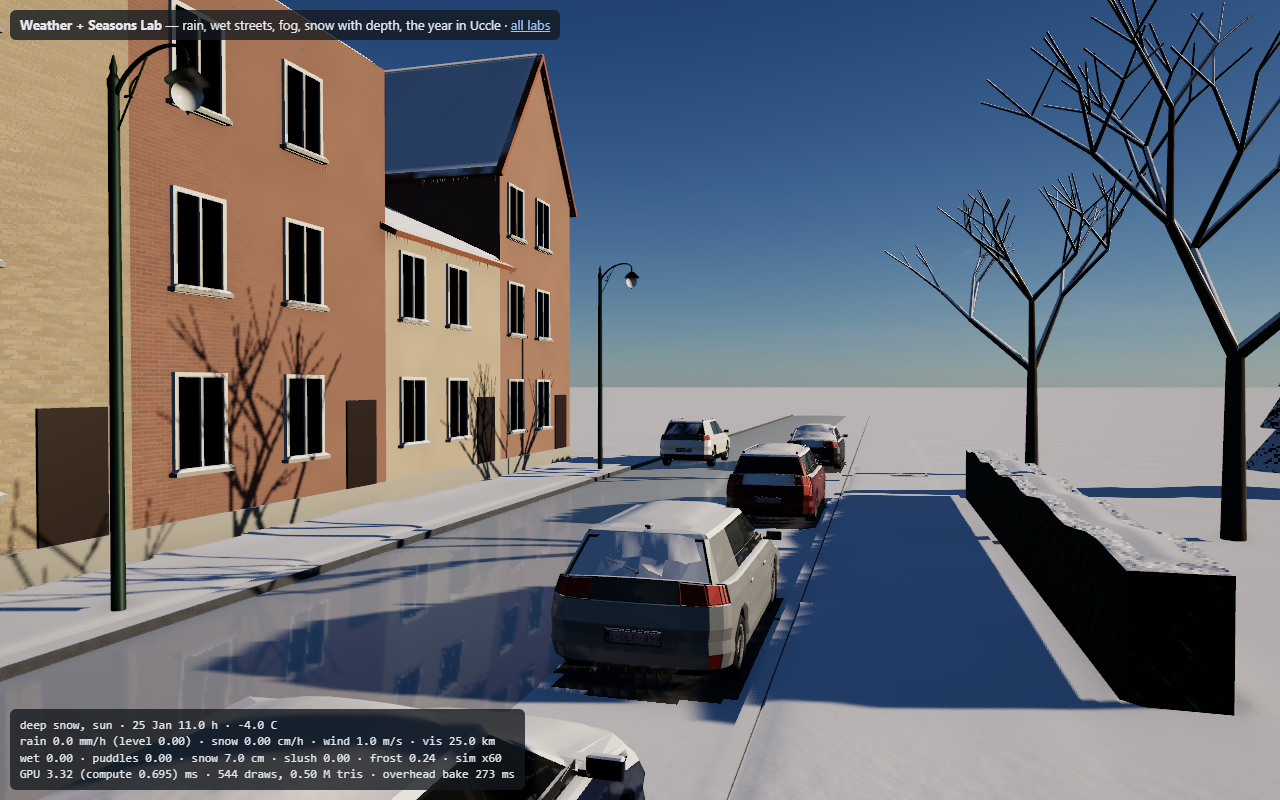
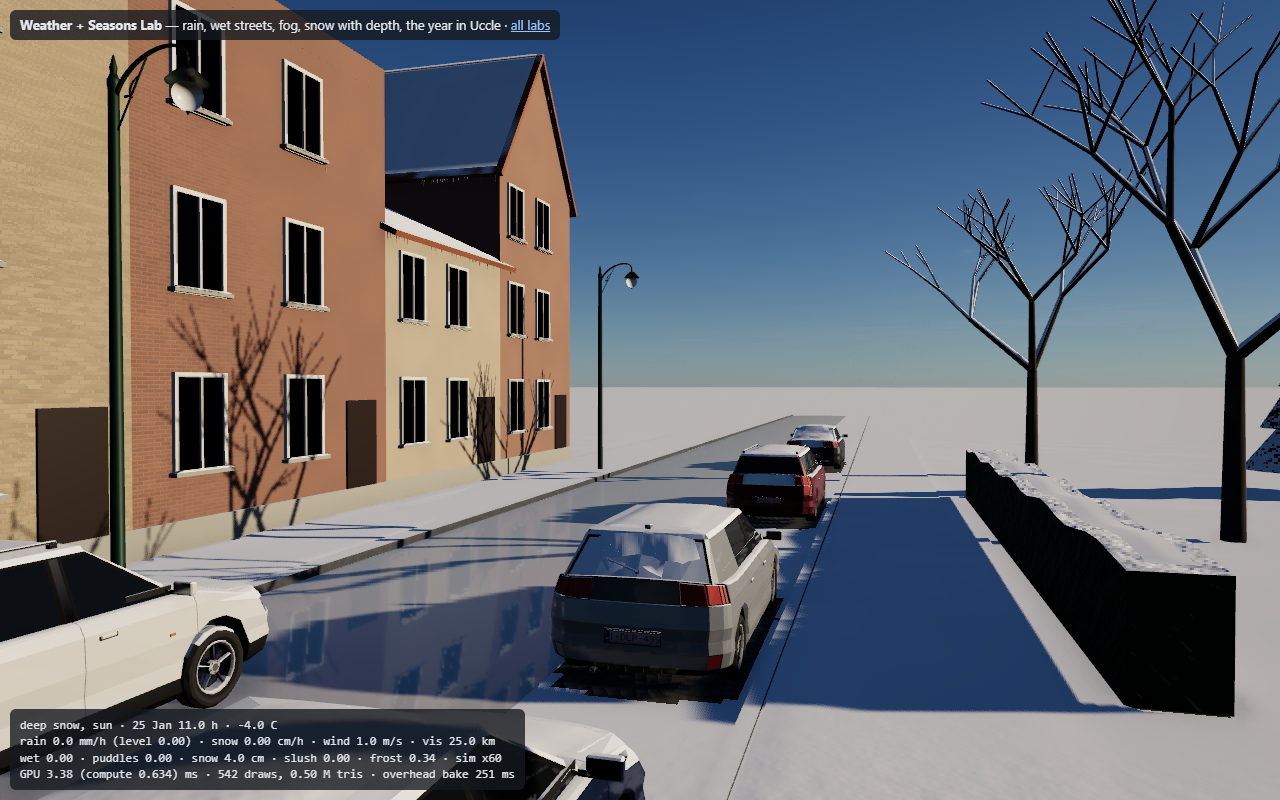
Round 2: patchy thin snow + dark tyre lines, cornice cap, min-pixel icicles, softer ripples, flat-roof z-fight fix; WEATHER.md round 2 (photo findings, GPU, flicker), TODO

diff --git a/labs/weather-lab.js b/labs/weather-lab.js
@@ -27,7 +27,7 @@ import { Weather, WEATHER_PRESETS, wx } from "../viewer/weather/weatherState.js"
 import { weatherize, wxLook } from "../viewer/weather/surfaceWeather.js";
 import { createOverheadMap, markSolid, markCanopy, markRoad } from "../viewer/weather/overheadMap.js";
 import { createPrecipitation } from "../viewer/weather/precipitation.js";
-import { createSnowLayer } from "../viewer/weather/snowLayer.js";
+import { createSnowLayer, createTrackField, trackSampler } from "../viewer/weather/snowLayer.js";
 import { createWeatherFog } from "../viewer/weather/weatherFog.js";
 import { snowOnBranches, snowOnFoliage, createLedgeCaps, createEaveIce } from "../viewer/weather/snowExtras.js";
 import { fetchLive, mapLive } from "../viewer/weather/liveWeather.js";
@@ -142,6 +142,8 @@ const ledges = [];   // narrow up-facing ledges for the snow caps: { x, y, z, le
 
 // the overhead map: 64 m around the street (12.5 cm cells)
 const omap = createOverheadMap({ renderer, centre: new THREE.Vector3(0, 0, 0), size: 64, res: 512 });
+const trackField = createTrackField(omap);
+const trackAt = trackSampler(trackField, omap);
 
 // ================================================================================================ the street
 const root = new THREE.Group(); scene.add(root);
@@ -278,12 +280,13 @@ const houses = [
       }
       // a cornice at the foot of the mansard (a ledge for snow)
       root.add(mesh(new THREE.BoxGeometry(h.w, 0.18, 0.35).translate(x + h.w / 2, wallH - 0.05, front + 0.12), mats.stone, { porosity: 0.35 }));
-      ledges.push({ x: x + h.w / 2, y: wallH + 0.04, z: front + 0.12 + 0.02, len: h.w, width: 0.3, axis: "x" });
+      // the cornice is cut out of the volumetric layer (a mansard wall behind, a drop in front): a cap
+      ledges.push({ x: x + h.w / 2, y: wallH + 0.04, z: front + 0.12 + 0.03, len: h.w, width: 0.28, axis: "x" });
     } else if (h.roof === "flat") {
-      root.add(mesh(new THREE.BoxGeometry(h.w, 0.12, depthH).translate(x + h.w / 2, wallH + 0.06, zc), () => plainMat(0x33302c, 0.9), { porosity: 0.4, puddles: true }));
+      // (inset 3 cm from the facade: its front face was coplanar with the parapet's and z-fought in the flicker test)
+      root.add(mesh(new THREE.BoxGeometry(h.w - 0.06, 0.12, depthH - 0.06).translate(x + h.w / 2, wallH + 0.06, zc), () => plainMat(0x33302c, 0.9), { porosity: 0.4, puddles: true }));
       for (const [dx, dz, sx, sz] of [[0, -depthH / 2 + 0.15, h.w, 0.3], [0, depthH / 2 - 0.15, h.w, 0.3]]) {
         root.add(mesh(new THREE.BoxGeometry(sx, 0.6, sz).translate(x + h.w / 2 + dx, wallH + 0.3, zc + dz), mkB, WALL_OPTS));
-        ledges.push({ x: x + h.w / 2 + dx, y: wallH + 0.6, z: zc + dz, len: sx, width: sz, axis: "x" });
       }
       // a skylight box on the roof
       root.add(mesh(new THREE.BoxGeometry(1.4, 0.5, 1.4).translate(x + h.w / 2, wallH + 0.37, zc - 1), () => plainMat(0x777a7d, 0.5), { porosity: 0.1 }));
@@ -465,7 +468,7 @@ const rain = createPrecipitation({ renderer, kind: "rain", map: omap });
 const snowP = createPrecipitation({ renderer, kind: "snow", map: omap });
 const leaves = createPrecipitation({ renderer, kind: "leaves", map: omap, trees: treeSites.map((t) => ({ x: t.x, z: t.z, r: t.r * 0.8, y: t.y })) });
 scene.add(rain.mesh, rain.splashes, snowP.mesh, leaves.mesh);
-const snowLayer = createSnowLayer({ renderer, map: omap });
+const snowLayer = createSnowLayer({ renderer, map: omap, track: trackField });
 scene.add(snowLayer.mesh);
 const caps = createLedgeCaps(ledges);
 scene.add(caps.mesh);

diff --git a/viewer/weather/snowLayer.js b/viewer/weather/snowLayer.js
@@ -18,17 +18,28 @@ import { wx } from "./weatherState.js";
 import { season } from "../seasons/season.js";
 import { SHAPE } from "./overheadMap.js";
 import { noise2D, bumpNormal } from "../tslkit.js";
-import { glint, SNOW_ALBEDO, wxLook } from "./surfaceWeather.js";
+import { glint, SNOW_ALBEDO, wxLook, snowMask } from "./surfaceWeather.js";
 
 const NSTAMP = 6;
 
-export function createSnowLayer({ renderer, map }) {
+/** The track field (footprints / tyre tracks), one float per overhead cell. Create it BEFORE the materials when they
+ *  should show tracks in thin snow too (weatherize({ track: trackSampler(field, map) })). */
+export function createTrackField(map) { return instancedArray(map.res * map.res, "float"); }
+/** fragment sampler of the track field at a world xz (0 fresh .. 1 packed); 0 outside the map */
+export function trackSampler(field, map) {
+  return (xz) => {
+    const c = clamp(xz.sub(map.uOrigin).div(map.uSize).mul(map.res).floor(), 0, map.res - 1);
+    return select(map.inside(xz), field.element(int(c.y).mul(map.res).add(int(c.x))), float(0));
+  };
+}
+
+export function createSnowLayer({ renderer, map, track: sharedTrack = null }) {
   const N = map.res, cell = map.cell;
   const x0 = map.uOrigin.value.x, z0 = map.uOrigin.value.y;
   const geo = new THREE.PlaneGeometry(map.size - cell, map.size - cell, N - 1, N - 1).rotateX(-Math.PI / 2)
     .translate(x0 + map.size / 2, 0, z0 + map.size / 2);
   geo.boundingSphere = new THREE.Sphere(new THREE.Vector3(x0 + map.size / 2, 0, z0 + map.size / 2), map.size);
-  const track = instancedArray(N * N, "float");
+  const track = sharedTrack ?? instancedArray(N * N, "float");
   const uDt = uniform(0);
   const uRefill = uniform(0);                          // track units per second (snowfall fills tracks back)
   const stampA = Array.from({ length: NSTAMP }, () => uniform(new THREE.Vector4(0, 0, 0, 0)));    // x, z, prev x, prev z
@@ -101,11 +112,19 @@ export function createSnowLayer({ renderer, map }) {
   const packed = smoothstep(0.15, 0.7, vTrack);
   mat.colorNode = Fn(() => {
     If(vHide.greaterThan(0.001), () => { Discard(); });
+    // thin snow is patchy: the layer keeps the materials' own cover pattern (same noise) and, while it is thin, opens
+    // where wheels and feet packed it down to the ground (the Bosveldweg photo: dark tyre lines in 1 cm of snow)
+    const thin = float(1).sub(smoothstep(0.02, 0.06, wx.uSnowDepth));
+    const keep = snowMask(P, float(1), float(1), wx.uSnowCover);
+    If(keep.lessThan(0.3), () => { Discard(); });
     const v = noise2D(P.xz.mul(0.8)).mul(0.04).add(0.98);
     const slushC = vec3(0.4, 0.41, 0.42);
     let c = SNOW_ALBEDO.mul(v);
     c = mix(c, c.mul(0.78).mul(vec3(0.97, 0.97, 0.96)), packed);              // packed snow: greyer, a little dirty
     c = mix(c, slushC, wx.uSlush.mul(mix(float(0.5), float(1), packed)));      // thaw: tracks go to slush first
+    // thin snow: the tracks are pressed through to the wet ground (dark lines, the Bosveldweg photo)
+    const thinT = float(1).sub(smoothstep(0.02, 0.06, wx.uSnowDepth));
+    c = mix(c, vec3(0.07, 0.068, 0.065), packed.mul(thinT).mul(0.9));
     return c;
   })();
   mat.roughnessNode = mix(mix(mix(float(0.74), float(0.12), gl.w), float(0.5), packed), float(0.22), wx.uSlush);

diff --git a/viewer/weather/surfaceWeather.js b/viewer/weather/surfaceWeather.js
@@ -53,7 +53,7 @@ export const rippleSlope = Fn(([xz, t, fw]) => {
     acc.addAssign(d.div(max(length(d), 0.001)).mul(w));
   }
   // rings ~11 cm wavelength: gone before a ring is 3 px across (no crawl)
-  return acc.mul(0.22).mul(float(1).sub(smoothstep(0.012, 0.035, fw))).mul(wx.uRain.mul(1.5).min(1)).mul(wxLook.uRipple);
+  return acc.mul(0.13).mul(float(1).sub(smoothstep(0.012, 0.035, fw))).mul(wx.uRain.mul(1.5).min(1)).mul(wxLook.uRipple);
 });
 
 /** Snow sparkle: a sparse set of cells whose facet is tilted at random; returns vec4(view normal tilt xyz, mask). */
@@ -120,7 +120,7 @@ export function weatherize(m, o = {}) {
   // a soaked porous surface also gets a touch more saturated (Lagarde: the water layer)
   let rough = mix(baseRough, baseRough.mul(0.3).add(0.06), wet.mul(mix(float(0.55), float(1), horiz)));
   let metal = mix(baseMetal, max(baseMetal, float(0.12)), wet.mul(horiz));
-  if (o.road) { rough = mix(rough, max(rough, float(0.42)), wx.uSalt.mul(wx.uSnowCover.min(1))); metal = metal.mul(float(1).sub(wx.uSalt.mul(wx.uSnowCover.min(1)).mul(0.6))); }
+  if (o.road) { rough = mix(rough, max(rough, float(0.55)), wx.uSalt.mul(wx.uSnowCover.min(1))); metal = metal.mul(float(1).sub(wx.uSalt.mul(wx.uSnowCover.min(1)).mul(0.6))); }
   let nView = baseN;
 
   // ---- puddles
@@ -230,6 +230,10 @@ export function weatherize(m, o = {}) {
     }
     // slush: melting snow on roads / pavements turns grey, wet and patchy
     sm.mulAssign(roadKeep);
+    if (o.track) {   // thin snow: packed tracks show the ground (wheel lines, footprints)
+      const thin = float(1).sub(smoothstep(0.02, 0.06, wx.uSnowDepth));
+      sm.mulAssign(float(1).sub(smoothstep(0.35, 0.75, o.track(P.xz)).mul(thin).mul(horiz)));
+    }
     // what is left on a salted road is old, dirty slush (grey-brown), whatever the melt state
     const slush = o.slush ? max(wx.uSlush, o.road ? wx.uSalt.mul(0.85) : float(0)) : wx.uSlush.mul(0.35);
     const sCol = mix(SNOW_ALBEDO, vec3(0.36, 0.35, 0.33), slush.mul(0.85));

diff --git a/viewer/weather/snowExtras.js b/viewer/weather/snowExtras.js
@@ -128,7 +128,8 @@ export function createEaveIce(map, { perSite = 2, maxSites = 700 } = {}) {
   cone.setAttribute("aIce", new THREE.InstancedBufferAttribute(S4, 4));
   const ic = attribute("aIce", "vec4"), r = ic.w;
   const len = wx.uIcicle.mul(r.mul(r).mul(0.55).add(0.15)).mul(smoothstep(0.25, 0.35, r));   // a third of the sites stay bare
-  const rad = len.mul(0.06).add(0.004);
+  // never thinner than ~1 px (a sub-pixel icicle blinks as the camera moves: the flicker test)
+  const rad = max(len.mul(0.06).add(0.004), length(cameraPosition.sub(ic.xyz)).mul(0.0009)).mul(smoothstep(0.0, 0.02, len));
   im.positionNode = ic.xyz.add(vec3(positionGeometry.x.mul(rad), positionGeometry.y.mul(len), positionGeometry.z.mul(rad)));
   im.colorNode = mix(vec3(0.55, 0.68, 0.78), vec3(0.85, 0.9, 0.95), positionGeometry.y.negate());
   // (normals: the cone's own, unscaled: fine for a thin cone)

diff --git a/docs/WEATHER.md b/docs/WEATHER.md
@@ -92,3 +92,86 @@ Heat maps: `docs/weather/flicker_wet_strafe.png`, `flicker_snow_strafe.png`, `fl
 - Glass in the lab is a dark mirror (no interior): night windows are black; the city's facade windows have interiors.
 - Snow sparkle: dark specks were visible with large facet tilts; tilt reduced to 0.18 rad, re-check up close.
 - GPU numbers taken with another lab running in the same Chrome: redo on a quiet machine.
+
+---
+
+# Round 2 (2026-11-11 evening): winter
+
+## Photo side-by-sides (free Commons photos, kept in `data/raw/weather_refs/` with `SOURCES.md`, never shipped)
+Composites (photo | lab render), local only: `data/raw/weather_refs/compare_after_snow_sun.jpg` (Uccle, Av. Churchill
+after snow, charles lecompte CC BY-SA 3.0), `compare_snowfall_night.jpg` (Av. Churchill 17-01-2024, Sjenghai CC BY 4.0),
+`compare_night_snow_demey.jpg` (Av. G. Demey, Szilas CC BY-SA 4.0), `compare_patchy_snow.jpg` (Bosveldweg, charles
+lecompte CC BY-SA 3.0), `compare_rain_day.jpg` (rue des Fripiers in rain, charles lecompte CC BY-SA 3.0). Lab-only
+renders: `docs/weather/r2_*.png`.
+
+What the photos taught, and what changed:
+
+| Photo says | Lab before | Now |
+|---|---|---|
+| Main roads are salted / ploughed: black WET asphalt, dirty slush only at the kerbs; snow stays on sidewalks, parking strips, lawns, cars (Av. Churchill, day) | the whole street white | `wx.uSalt` + a ROAD bake layer: the volumetric layer keeps almost nothing on carriageways; the road material (`weatherize({ road, edge })`) goes wet dark asphalt with grey-brown slush along the gutters; a slider for unsalted side streets |
+| At night the snow is lit EVERYWHERE, warm (street lights + the glowing cloud deck) | black snow outside the two lamp pools | "urban sky glow": the lab's constant hemisphere light, warm, x night x cloud x snow cover (a finding for the city's night look) |
+| Falling flakes near lamps are short streaks (exposure blur) | round dots | flakes stretched along their velocity by ~1/40 s; a "blizzard (dense)" preset (64k flakes, 12 m/s) |
+| Snow plastered on the windward side of trunks | none | `weatherize({ plaster: true })` on bark |
+| Snow on the upper side of every branch | only the cut ends | `snowOnBranches()` (thickness) + bark `snowUp: [0.12, 0.45]` (colour) |
+| Thin snow (1 cm) is patchy; wheel tracks show the dark ground (Bosveldweg) | uniform white layer | full cover at 2.5 cm (was 1.2); the layer follows the same cover pattern; in thin snow packed tracks turn to dark wet ground |
+| Sills and cornices carry rounded snow; sills under a high eave still whiten | sills grey (the overhead test said "sheltered") | ledge caps (instanced, rounded) + exposure that lets wind-blown snow under eaves > 1.2 m above |
+| Wet day (setts with reflections, white sky) | close already | ripple normals softened (SSR flicker) |
+
+Not matched yet: the orange cloud glow of the night sky itself (Firmament, not touched); trampled sidewalk snow; snow on
+rails and fences; snow-covered windscreens.
+
+## New in round 2
+- **Shape pass in a worker** (`viewer/weather/overheadShape.js` pure, `overheadWorker.js` module worker, transferred
+  buffers): ~150 ms of loops off the main thread (fallback: main thread). The GPU bake + readback stays async.
+- **Smoother layer**: base heights `Hs` blurred twice across non-step neighbours (car roofs and gentle slopes lose
+  their 12.5 cm terraces); lip at cuts 0.12 -> 0.04 (the cut's stair-step on diagonals is nearly flat).
+- **Snow on branches + evergreens** (`viewer/weather/snowExtras.js`): `snowOnBranches(material)` (built on the
+  instanced positionLocal: works for instanced trees), `snowOnFoliage(material, { heightNode })` for hedges / conifers
+  (the hook for claude/foliage). Lab: a privet hedge (solid: the layer caps it) and two yews.
+- **Ledge caps**: `createLedgeCaps([{ x, y, z, len, width, axis }])`, one instanced draw, height = min(0.8 depth,
+  0.55 width), only where the layer cuts the ledge out (sills, a cornice under a wall); a cap on a ledge the layer also
+  covers z-fights.
+- **Icicles + drips**: `createEaveIce(map)`: sites from the overhead map (roof drop edges > 1.5 m, not wall ledges),
+  ~1000 cones grown by `wx.uIcicle` (cold + snow on roofs, ~4 h; melt above +1 C), never thinner than ~1 px; drips
+  vertex-animated (gravity, the real drop height) while melting or raining (`wx.uDrip`).
+- **Lite weatherize** (`weatherize({ ..., lite: true })`): wet darkening + film + SSR metalness + one-octave snow cover
+  + salted road: the far-tile path.
+- **r187 gotcha**: `positionNode` REPLACES the instanced position (instancing is applied before it): instanced weather
+  meshes carry their own per-instance attributes.
+
+## GPU (street level, interleaved rounds, mean / median ms)
+NOISY: the baseline itself moved from 3.3 to 4.2-4.9 ms between sessions (other GPU work on the machine); ~±0.2 ms.
+
+| Effect | Cost |
+|---|---|
+| Rain drops + splashes (heavy rain) | +0.07 / +0.07 (round 1: +0.29) |
+| Wetness, full weatherize on every material (7 rounds) | +0.47 / +0.39 |
+| Wetness, LITE path (7 rounds) | -0.05 / -0.13: below the noise, ~0-0.1 |
+| Snow flakes (46k, snowstorm) | +0.49 / +0.66 |
+| Snow layer | +0.55 / +0.72 |
+| Icicles + drips + caps | +0.13 / +0.26 |
+| All snow (flakes + layer + cover + ice + caps + branches), 7 rounds | **+0.74 / +0.79** (budget 1.0) |
+
+## Flicker (24 frames, strafe 0.6 mm unless noted)
+| Scene | ppm | Where |
+|---|---|---|
+| deep snow, snowy branches, icicles, hedge | 237 (1 732 before fixing a lab z-fight: flat-roof slab coplanar with the parapet) | branch tips (thin tree geometry), a few icicle tips |
+| blizzard street | 14 | - |
+| heavy rain at night, puddles low | 884 (1 092 before softening the ripples) | SSR reflections of the rippled puddle right in front of the camera: the weakest spot |
+| car close-up in snow, orbit 0.5 mrad | 983 | car model detail (rims, rails), not the snow |
+
+## Images (round 2)
+`docs/weather/r2_sills_icicles.png`, `r2_sill_close.png` (rounded sill caps), `r2_branches_hedge.png`,
+`r2_after_snow_sun.png` (salted road), `r2_snowfall_night.png` (sky glow, streaked flakes), `r2_patchy_snow_setts.png`
+(thin snow, dark tyre lines), `r2_rain_day.png`, `r2_blizzard.png`, `r2_car_roof_close.png`,
+`r2_strip_walk_winter.png`, `r2_strip_fly_snow.png`; flicker heat maps `r2_flicker_branches.png`,
+`r2_flicker_rain_night.png`.
+
+## Weak (round 2)
+- Puddle ripples + SSR still flicker close to the camera (884 ppm): filter the ripple normals for the SSR pass.
+- The materials' "tracks in thin snow" sampler (`weatherize({ track })`, a storage-buffer read in the fragment) did not
+  show in the test: not wired (the layer alone darkens the tracks).
+- Thin-snow patchiness is one noise: blobby holes; real thin snow follows the ground texture (sett joints, grass).
+- Wet asphalt still mirrors the bright snowy street at grazing angles more than in the photo.
+- The night sky glow is a hemisphere light in the lab, not in Firmament.
+- Lab trees are procedural skeletons (claude/foliage will replace them).

diff --git a/docs/TODO.md b/docs/TODO.md
@@ -328,11 +328,14 @@ falcon, labs (Bird, Lamp), the dev panel.
 - [ ] City wiring: one `Weather` + `weatherize()` in the ground / facade / roof / car material factories, the overhead
       map + snow layer as a sliding window round the camera (shape pass in a worker), weather fog as scene.fogNode,
       dev-panel "Weather" folder (presets + live toggle), the date slider driving `season.js`.
-- [ ] Far-tile variant of weatherize (wet darkening + roughness only past ~150 m) to bring wetness to ~0.1 ms.
+- [x] Far-tile variant of weatherize: `lite: true` (round 2, ~0-0.1 ms measured); wire it to the far tiles.
 - [ ] Trees: claude/foliage reads `viewer/seasons/season.js` (leaf colour / autumn / density per leaf, fall).
-- [ ] Side-by-side with real photos of Uccle / Brussels in rain and snow (look-only).
-- [ ] Snow: snow on branches (up-facing cover on the real trees), snow sliding off steep roofs, icicles, snow on
-      sills with thickness (sub-cell), finer layer near the camera (2 cascades: 6 cm near, 25 cm far).
+- [x] Side-by-side with real photos (round 2: data/raw/weather_refs/compare_*.jpg, findings in docs/WEATHER.md).
+- [ ] Night: the cloud deck's orange city glow in Firmament itself (the lab fakes it with a hemisphere light).
+- [ ] Puddle ripples + SSR flicker near the camera (884 ppm): filter ripple normals for SSR.
+- [ ] Trampled sidewalk snow, snow on rails / fences, tracks in thin snow on the materials.
+- [x] Snow on branches / evergreens (hooks), sill caps, icicles + drips, salted roads (round 2).
+- [ ] Snow sliding off steep roofs; finer layer near the camera (2 cascades: 6 cm near, 25 cm far).
 - [ ] Rain: drips from eaves and gutters, wet glass close-up (normal-mapped drops), thunder / lightning (sound lab).
 - [ ] GPU numbers on a quiet machine (another lab ran during the 2026-11-11 rounds).
 
